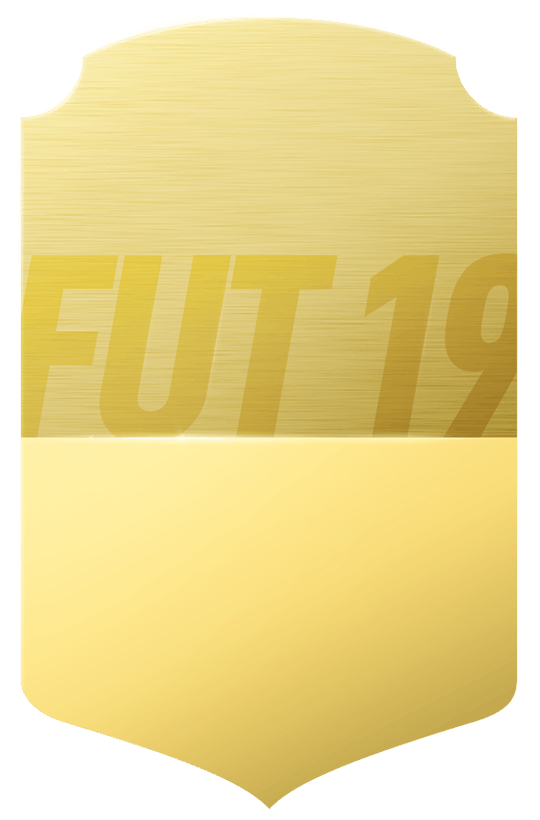
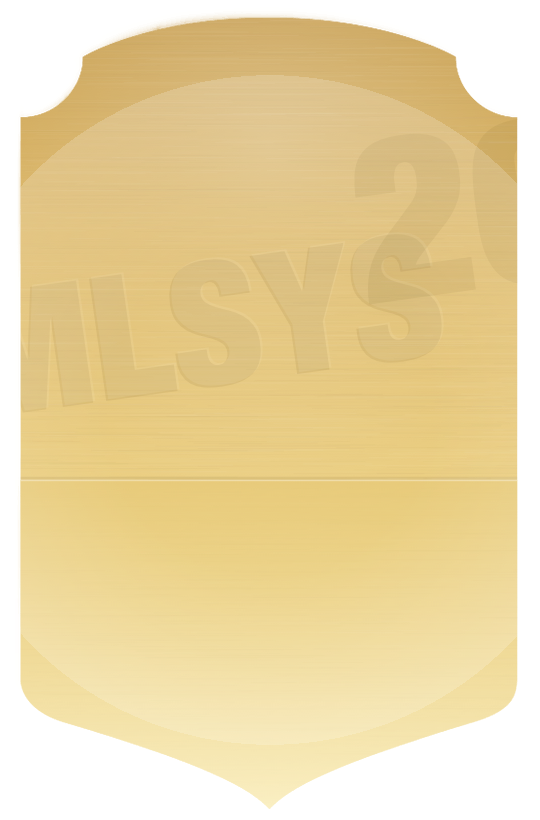
Recompose gold card: custom MLSYS 26 watermark, centered subject, compact panel
- Regenerate the card background in-house (Quartz script): same shield
  silhouette, repainted brushed-gold finish, 'MLSYS 26' etched letters
  replacing the baked-in FUT branding, panel seam moved down to 58.5%
- Zoom the subject crop so the face is prominent and centered
- School crests stacked top-left beside the head (FUT rating position)
- Lower panel compacted: larger name and stat type, tighter spacing

diff --git a/style.css b/style.css
@@ -228,10 +228,10 @@ main {
    only a bottom fade is needed to melt the torso into the lower panel */
 .fut-photo-frame {
     position: absolute;
-    left: 2%;
-    top: 12%;
-    width: 96%;
-    height: 42.5%;
+    left: 0;
+    top: 11%;
+    width: 100%;
+    height: 47.5%;
     overflow: hidden;
     -webkit-mask-image: linear-gradient(180deg, #000 0%, #000 80%, transparent 98%);
     mask-image: linear-gradient(180deg, #000 0%, #000 80%, transparent 98%);
@@ -247,18 +247,15 @@ main {
     opacity: 1;
 }
 
+/* School crests stacked top-left, where FUT puts rating/position */
 .fut-school-logos {
     position: absolute;
-    left: 13%;
-    top: 39%;
+    left: 7%;
+    top: 15%;
     display: flex;
+    flex-direction: column;
     align-items: center;
-    gap: 1.6cqw;
-    padding: 1.1cqw 1.35cqw;
-    border: 0.25cqw solid rgba(255, 255, 255, 0.42);
-    border-radius: 2.2cqw;
-    background: rgba(255, 243, 188, 0.3);
-    box-shadow: 0 1.6cqw 3.4cqw rgba(51, 35, 10, 0.12);
+    gap: 2cqw;
     z-index: 5;
 }
 
@@ -266,16 +263,16 @@ main {
     display: inline-flex;
     align-items: center;
     justify-content: center;
-    width: 11.6cqw;
-    height: 11.6cqw;
+    width: 12.6cqw;
+    height: 12.6cqw;
     border-radius: 50%;
-    background: rgba(255, 255, 255, 0.88);
-    box-shadow: inset 0 0 0 0.25cqw rgba(51, 35, 10, 0.08), 0 0.9cqw 2cqw rgba(51, 35, 10, 0.14);
+    background: rgba(255, 255, 255, 0.9);
+    box-shadow: inset 0 0 0 0.25cqw rgba(51, 35, 10, 0.08), 0 0.9cqw 2cqw rgba(51, 35, 10, 0.18);
 }
 
 .fut-school-logo img {
-    width: 9.4cqw;
-    height: 9.4cqw;
+    width: 10.2cqw;
+    height: 10.2cqw;
     object-fit: contain;
     display: block;
 }
@@ -284,9 +281,9 @@ main {
     position: absolute;
     left: 0;
     right: 0;
-    top: 54%;
+    top: 58.5%;
     bottom: 0;
-    padding-top: 0;
+    padding-top: 1.6cqw;
     text-align: center;
     z-index: 4;
 }
@@ -294,13 +291,13 @@ main {
 .fut-name {
     display: inline-block;
     font-family: 'Barlow Condensed', 'Arial Narrow', var(--font-main);
-    font-size: 8.4cqw;
+    font-size: 10.2cqw;
     font-weight: 700;
     text-transform: uppercase;
     letter-spacing: 0.06em;
     border-bottom: 0.6cqw solid var(--fut-line);
-    padding: 0 4.8cqw 1.6cqw;
-    margin-bottom: 5.4cqw;
+    padding: 0 5cqw 1.2cqw;
+    margin-bottom: 4cqw;
 }
 
 .fut-stats {
@@ -313,10 +310,10 @@ main {
     margin: 0 auto;
     padding: 0;
     font-family: 'Barlow Condensed', 'Arial Narrow', var(--font-main);
-    font-size: 4.1cqw;
+    font-size: 5cqw;
     font-weight: 600;
     letter-spacing: 0.08em;
-    line-height: 1.28;
+    line-height: 1.25;
     text-align: left;
 }
 
@@ -339,8 +336,8 @@ main {
     display: inline-block;
     min-width: 2.7ch;
     text-align: right;
-    margin-right: 1.2cqw;
-    font-size: 6cqw;
+    margin-right: 1.4cqw;
+    font-size: 7.4cqw;
     font-weight: 700;
     letter-spacing: 0.01em;
 }
